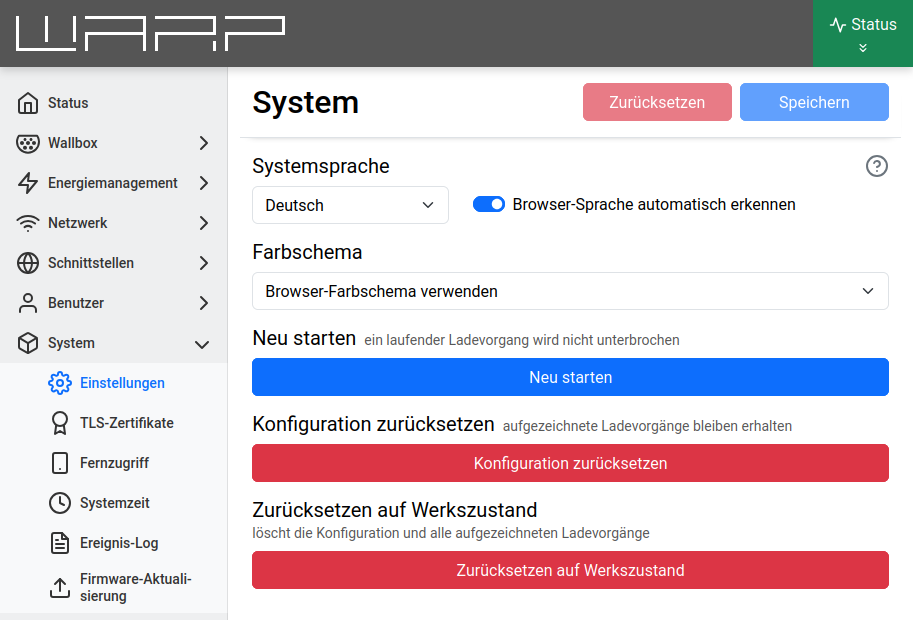
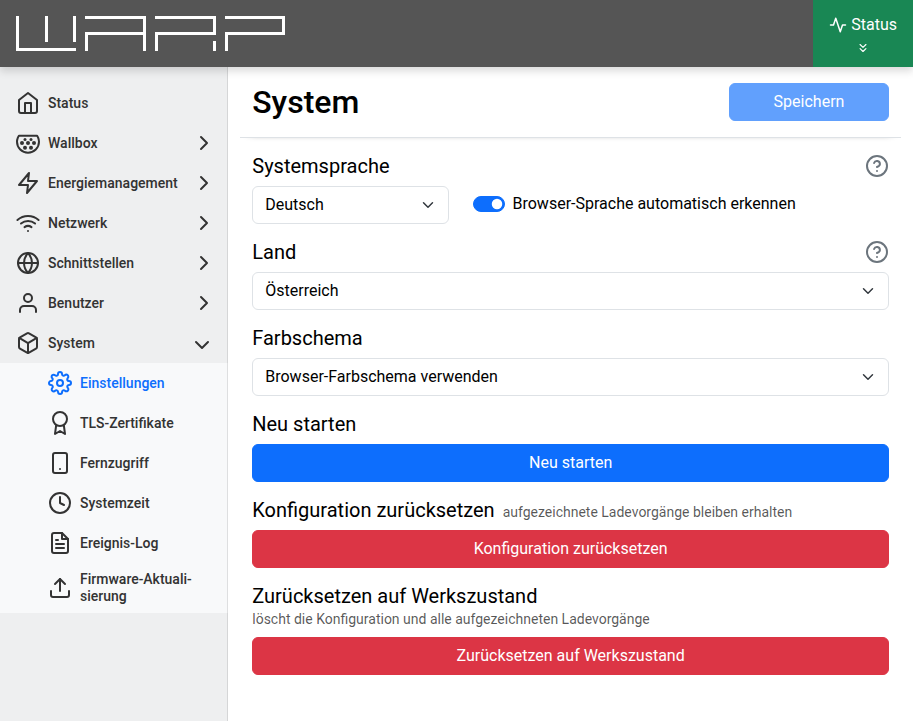
docs: Add OVE R 37 docs

diff --git a/docs.warp-charger.com/docs/webinterface/energy_management/ove_r37.md b/docs.warp-charger.com/docs/webinterface/energy_management/ove_r37.md
@@ -1,0 +1,78 @@
+---
+sidebar_position: 13
+---
+
+# OVE R 37
+
+import DeviceCompatibility from '@site/src/components/DeviceCompatibility';
+
+<DeviceCompatibility supported={['wc4']} />
+
+Die OVE-Richtlinie R 37 legt in Österreich Anforderungen an Ladeeinrichtungen für Elektrofahrzeuge fest, mit denen das Stromnetz gestützt wird. Dazu gehören z.B. das Abschalten bei Unterspannung und ein verzögertes, langsames Wiederzuschalten nach einer Netzstörung. Der WARP4 Charger setzt diese Funktionen direkt im Ladecontroller um.
+
+Die Seite erscheint unter `Energiemanagement`, wenn unter [System -> Einstellungen](/docs/webinterface/system/settings.md) als Land **Österreich** ausgewählt ist. Ist OVE R 37 aktiviert, bleibt die Seite auch nach einem Wechsel des Landes sichtbar.
+
+![image](/img/webinterface/energy_management/ove_r37.png)
+
+:::note
+
+Die Konfiguration darf nur von einer Elektrofachkraft geändert werden. Zum Speichern ist das Elektriker-Passwort `Ele4223W` erforderlich.
+
+:::
+
+## Funktionen
+
+Bei aktiviertem OVE R 37 gelten die folgenden Funktionen. Spannung, Strom und Frequenz werden dabei vom Stromzähler der Wallbox gemessen.
+
+- **Unterspannungsauslösung**: Liegt die Spannung einer Phase länger als die Beobachtungszeit unter der Auslöseschwelle, wird der Ladevorgang unterbrochen.
+- **Wiederzuschaltung**: Nach einer Auslösung wird erst wieder geladen, wenn alle Phasenspannungen zwischen 0,9 und 1,09 pu (207 V bis 251 V) und die Netzfrequenz zwischen 49,9 Hz und 50,1 Hz liegen und diese Bedingungen für die gesamte Wiederzuschalt-Wartezeit erfüllt sind. Wird eine Bedingung währenddessen verletzt, beginnt die Wartezeit von vorne.
+- **Hochlauframpe**: Nach dem Wiederzuschalten beginnt der Ladestrom bei 6 A und steigt um 1 A pro Minute bis auf 32 A.
+- **Neustart**: Nach einem Neustart der Wallbox (z.B. nach einem Stromausfall) wird ein Ladevorgang nicht sofort fortgesetzt. Ist innerhalb von 30 Sekunden ein Fahrzeug angeschlossen, läuft derselbe Ablauf wie nach einer Auslösung (Wartezeit und Hochlauframpe).
+- **Symmetrie**: Ein- und zweiphasiges Laden ist auf 16 A begrenzt. Beim dreiphasigen Laden wird der Ladestrom auf 16 A begrenzt, wenn sich die Ströme der Phasen um mehr als 16 A unterscheiden.
+- **Zufällige Startverzögerung**: Ladevorgänge mit vorgegebener Startzeit, z.B. über eine [Automatisierungsregel](/docs/webinterface/wallbox/automation.md), starten mit einer zufälligen Verzögerung von 0 bis 300 Sekunden.
+
+Ob OVE R 37 den Ladevorgang gerade blockiert oder begrenzt, ist auch auf der Seite [Ladestatus](/docs/webinterface/wallbox/charge_status.md) unter der Ladestromgrenze **OVE R 37** zu sehen.
+
+## Konfiguration
+
+### OVE R 37 aktiviert
+
+Aktiviert oder deaktiviert die OVE-R-37-Funktionen.
+
+Die folgenden Parameter sind im Auslieferungszustand bereits auf die von der Richtlinie geforderten Standardwerte eingestellt. In der Regel muss OVE R 37 nur aktiviert werden.
+
+### Unterspannungs-Auslöseschwelle
+
+Die Spannung, unterhalb der ausgelöst wird. Sie wird in Tausendstel der Nennspannung von 230 V angegeben (‰ pu). Der Standardwert 800 entspricht 0,80 pu, also etwa 184 V.
+
+### Unterspannungs-Beobachtungszeit
+
+Wie lange die Spannung unter der Auslöseschwelle liegen muss, bevor ausgelöst wird. Standardwert: 3000 ms.
+
+### Wiederzuschalt-Wartezeit
+
+Wie lange die Bedingungen für die Wiederzuschaltung erfüllt sein müssen, bevor nach einer Auslösung wieder geladen wird. Zulässig sind 0 bis 300 Sekunden, Standardwert: 60 s.
+
+### Elektriker-Passwort
+
+Wird zum Speichern der Konfiguration benötigt.
+
+## Status
+
+Ist OVE R 37 aktiviert, wird oben auf der Seite der aktuelle Zustand angezeigt:
+
+- **OVE-R-37-Zustand**:
+  - **Normal**: Laden ist uneingeschränkt möglich.
+  - **Ausgelöst**: Der Ladevorgang wurde unterbrochen, die Bedingungen für die Wiederzuschaltung sind nicht erfüllt.
+  - **Warten auf Wiederzuschaltung**: Die Bedingungen sind erfüllt, die Wiederzuschalt-Wartezeit läuft.
+  - **Hochlauf**: Die Hochlauframpe ist aktiv.
+  - **Warten nach Neustart**: Die Wallbox wurde vor weniger als 30 Sekunden neu gestartet.
+- **Auslösegrund**: Der Grund der letzten Auslösung, z.B. Unterspannung.
+- **Ladestart-Verzögerung**: Wird angezeigt, solange die zufällige Startverzögerung läuft.
+- **Spannung im Bereich**: Ob alle angeschlossenen Phasenspannungen zwischen 0,9 und 1,1 pu (207 V bis 253 V) liegen. Eine Spannung außerhalb dieses Bereichs löst nicht automatisch aus. Ausgelöst wird erst unterhalb der Unterspannungs-Auslöseschwelle.
+- **Frequenz im Bereich**: Ob die Netzfrequenz zwischen 49,9 Hz und 50,1 Hz liegt. Die Frequenz löst einen laufenden Ladevorgang nicht aus, sie ist nur eine Bedingung für die Wiederzuschaltung.
+
+## Weitere Informationen
+
+- [System -> Einstellungen](/docs/webinterface/system/settings.md): Auswahl des Landes
+- [Ladestatus](/docs/webinterface/wallbox/charge_status.md): Ladestromgrenzen der Wallbox

diff --git a/docs.warp-charger.com/i18n/en/docusaurus-plugin-content-docs/current/webinterface/energy_management/ove_r37.md b/docs.warp-charger.com/i18n/en/docusaurus-plugin-content-docs/current/webinterface/energy_management/ove_r37.md
@@ -1,0 +1,78 @@
+---
+sidebar_position: 13
+---
+
+# OVE R 37
+
+import DeviceCompatibility from '@site/src/components/DeviceCompatibility';
+
+<DeviceCompatibility supported={['wc4']} />
+
+The Austrian OVE directive R 37 specifies requirements for charging stations for electric vehicles that support the power grid. These include, for example, disconnecting on undervoltage and a delayed, slow reconnection after a grid disturbance. The WARP4 Charger implements these functions directly in the charge controller.
+
+The page appears under `Energy Management` if **Austria** is selected as country under [System -> Settings](/webinterface/system/settings.md). If OVE R 37 is enabled, the page stays visible even if the country is changed later.
+
+![image](/img/webinterface/energy_management/ove_r37.png)
+
+:::note
+
+The configuration must only be changed by a qualified electrician. Saving requires the electrician password `Ele4223W`.
+
+:::
+
+## Functions
+
+If OVE R 37 is enabled, the following functions apply. Voltage, current and frequency are measured by the energy meter of the charger.
+
+- **Undervoltage trip**: If the voltage of a phase stays below the trip threshold for longer than the observation time, charging is interrupted.
+- **Reconnection**: After a trip, charging only resumes once all phase voltages are between 0.9 and 1.09 pu (207 V to 251 V) and the mains frequency is between 49.9 Hz and 50.1 Hz, and these conditions have been met for the entire reconnect wait time. If a condition is violated in the meantime, the wait time starts again.
+- **Ramp-up**: After reconnecting, the charging current starts at 6 A and increases by 1 A per minute up to 32 A.
+- **Restart**: After a restart of the charger (e.g. after a power failure), charging does not resume immediately. If a vehicle is connected within 30 seconds, the same procedure as after a trip applies (wait time and ramp-up).
+- **Symmetry**: Single- and two-phase charging is limited to 16 A. During three-phase charging, the charging current is limited to 16 A if the phase currents differ by more than 16 A.
+- **Random start delay**: Charging with a preset start time, e.g. via an [automation rule](/webinterface/wallbox/automation.md), starts with a random delay of 0 to 300 seconds.
+
+Whether OVE R 37 is currently blocking or limiting charging can also be seen on the [Charge Status](/webinterface/wallbox/charge_status.md) page under the charging current limit **OVE R 37**.
+
+## Configuration
+
+### OVE R 37 enabled
+
+Enables or disables the OVE R 37 functions.
+
+The following parameters are already set to the default values required by the directive on delivery. Usually OVE R 37 only needs to be enabled.
+
+### Undervoltage trip threshold
+
+The voltage below which a trip occurs. It is given in thousandths of the nominal voltage of 230 V (‰ pu). The default value 800 corresponds to 0.80 pu, i.e. about 184 V.
+
+### Undervoltage observation time
+
+How long the voltage must stay below the trip threshold before a trip occurs. Default: 3000 ms.
+
+### Reconnect wait time
+
+How long the reconnection conditions must be met before charging resumes after a trip. 0 to 300 seconds are allowed, default: 60 s.
+
+### Electrician password
+
+Required to save the configuration.
+
+## Status
+
+If OVE R 37 is enabled, the current state is shown at the top of the page:
+
+- **OVE R 37 state**:
+  - **Normal**: Charging is possible without restrictions.
+  - **Tripped**: Charging was interrupted, the reconnection conditions are not met.
+  - **Waiting for reconnect**: The conditions are met, the reconnect wait time is running.
+  - **Ramping up**: The ramp-up is active.
+  - **Waiting after restart**: The charger was restarted less than 30 seconds ago.
+- **Trip reason**: The reason of the last trip, e.g. undervoltage.
+- **Charge start delay**: Shown while the random start delay is running.
+- **Voltage in range**: Whether all connected phase voltages are between 0.9 and 1.1 pu (207 V to 253 V). A voltage outside of this range does not trip automatically. A trip only occurs below the undervoltage trip threshold.
+- **Frequency in range**: Whether the mains frequency is between 49.9 Hz and 50.1 Hz. The frequency never trips an active charge, it is only a condition for reconnection.
+
+## Further information
+
+- [System -> Settings](/webinterface/system/settings.md): Selection of the country
+- [Charge Status](/webinterface/wallbox/charge_status.md): Charging current limits of the charger

diff --git a/docs.warp-charger.com/docs/webinterface/system/settings.md b/docs.warp-charger.com/docs/webinterface/system/settings.md
@@ -14,6 +14,8 @@ import DeviceCompatibility from '@site/src/components/DeviceCompatibility';
 Auf dieser Seite kann die Systemsprache konfiguriert werden. Alternativ ist es möglich, dass der [WARP Charger](@current-charger/introduction) oder [WARP Energy Manager](@current-wem/introduction) die
 Systemsprache mittels der Browsersprache festlegt.
 
+Unter **Land** wird das Land ausgewählt, in dem das Gerät installiert ist. Dadurch werden länderspezifische Funktionen und Vorschriften aktiviert. Ist **Österreich** ausgewählt, erscheint beim WARP4 Charger unter `Energiemanagement` die Seite [OVE R 37](/docs/webinterface/energy_management/ove_r37.md).
+
 Über die Einstellung **Farbschema** lässt sich das Erscheinungsbild des Webinterfaces anpassen. Zur Auswahl stehen ein helles und ein dunkles Farbschema sowie die Option, das Farbschema des Browsers zu übernehmen.
 
 :::note

diff --git a/docs.warp-charger.com/i18n/en/docusaurus-plugin-content-docs/current/webinterface/system/settings.md b/docs.warp-charger.com/i18n/en/docusaurus-plugin-content-docs/current/webinterface/system/settings.md
@@ -14,6 +14,8 @@ import DeviceCompatibility from '@site/src/components/DeviceCompatibility';
 This page allows configuring the system language. Alternatively, the [WARP Charger](@current-charger/introduction) or [WARP Energy Manager](@current-wem/introduction) can
 determine the system language based on the browser language.
 
+The **Country** setting selects the country the device is installed in. This enables country-specific features and regulations. If **Austria** is selected, the [OVE R 37](/webinterface/energy_management/ove_r37.md) page appears under `Energy Management` on the WARP4 Charger.
+
 The **Color scheme** setting allows customizing the appearance of the web interface. A light and a dark color scheme are available, as well as the option to follow the browser's color scheme.
 
 :::note

diff --git a/docs.warp-charger.com/docs/webinterface/wallbox/charge_status.md b/docs.warp-charger.com/docs/webinterface/wallbox/charge_status.md
@@ -66,7 +66,7 @@ Folgende Grenzen können Teil der Berechnung sein:
 
  * **§14a EnWG**: Begrenzung der Ladeleistung nach §14a EnWG.
 
- * **OVE R 37**: Blockiert bzw. verzögert den Ladevorgang gemäß der Netzstützungsfunktionen nach OVE R 37 (Österreich), beispielsweise bei Unterspannung.
+ * **OVE R 37**: Blockiert bzw. verzögert den Ladevorgang gemäß der Netzstützungsfunktionen nach [OVE R 37](/docs/webinterface/energy_management/ove_r37.md) (Österreich), beispielsweise bei Unterspannung.
 
 
 Die Farbmarkierung neben einer Grenze hat folgende Bedeutung:

diff --git a/docs.warp-charger.com/i18n/en/docusaurus-plugin-content-docs/current/webinterface/wallbox/charge_status.md b/docs.warp-charger.com/i18n/en/docusaurus-plugin-content-docs/current/webinterface/wallbox/charge_status.md
@@ -66,7 +66,7 @@ The following limits can be part of the calculation:
 
  * **§14a EnWG**: Limitation of the charging power according to §14a EnWG.
 
- * **OVE R 37**: Blocks or delays the charging process according to the grid support functions as per OVE R 37 (Austria), for example on undervoltage.
+ * **OVE R 37**: Blocks or delays the charging process according to the grid support functions as per [OVE R 37](/webinterface/energy_management/ove_r37.md) (Austria), for example on undervoltage.
 
 
 The color marking next to a limit has the following meaning:

diff --git a/docs.warp-charger.com/docs/warp4/configuration_and_setup.md b/docs.warp-charger.com/docs/warp4/configuration_and_setup.md
@@ -27,6 +27,7 @@ Folgende Einstellungen sind in der Firmware des WARP4 Charger verfügbar:
    * [PV-Ertragsprognose](/docs/webinterface/energy_management/solar_forecast)
    * [Eco-Modus](/docs/webinterface/energy_management/eco_mode)
    * [§14a EnWG](/docs/webinterface/energy_management/p14a_enwg)
+   * [OVE R 37](/docs/webinterface/energy_management/ove_r37)
  * Netzwerk
    * [Einstellungen](/docs/webinterface/network/settings)
    * [WLAN-Verbindung](/docs/webinterface/network/wifi-connection)

diff --git a/docs.warp-charger.com/i18n/en/docusaurus-plugin-content-docs/current/warp4/configuration_and_setup.md b/docs.warp-charger.com/i18n/en/docusaurus-plugin-content-docs/current/warp4/configuration_and_setup.md
@@ -27,6 +27,7 @@ The following settings are available in the WARP4 Charger firmware:
    * [Solar Forecast](/docs/webinterface/energy_management/solar_forecast)
    * [Eco Mode](/docs/webinterface/energy_management/eco_mode)
    * [§14a EnWG](/docs/webinterface/energy_management/p14a_enwg)
+   * [OVE R 37](/docs/webinterface/energy_management/ove_r37)
  * Network
    * [Settings](/docs/webinterface/network/settings)
    * [WiFi Connection](/docs/webinterface/network/wifi-connection)
